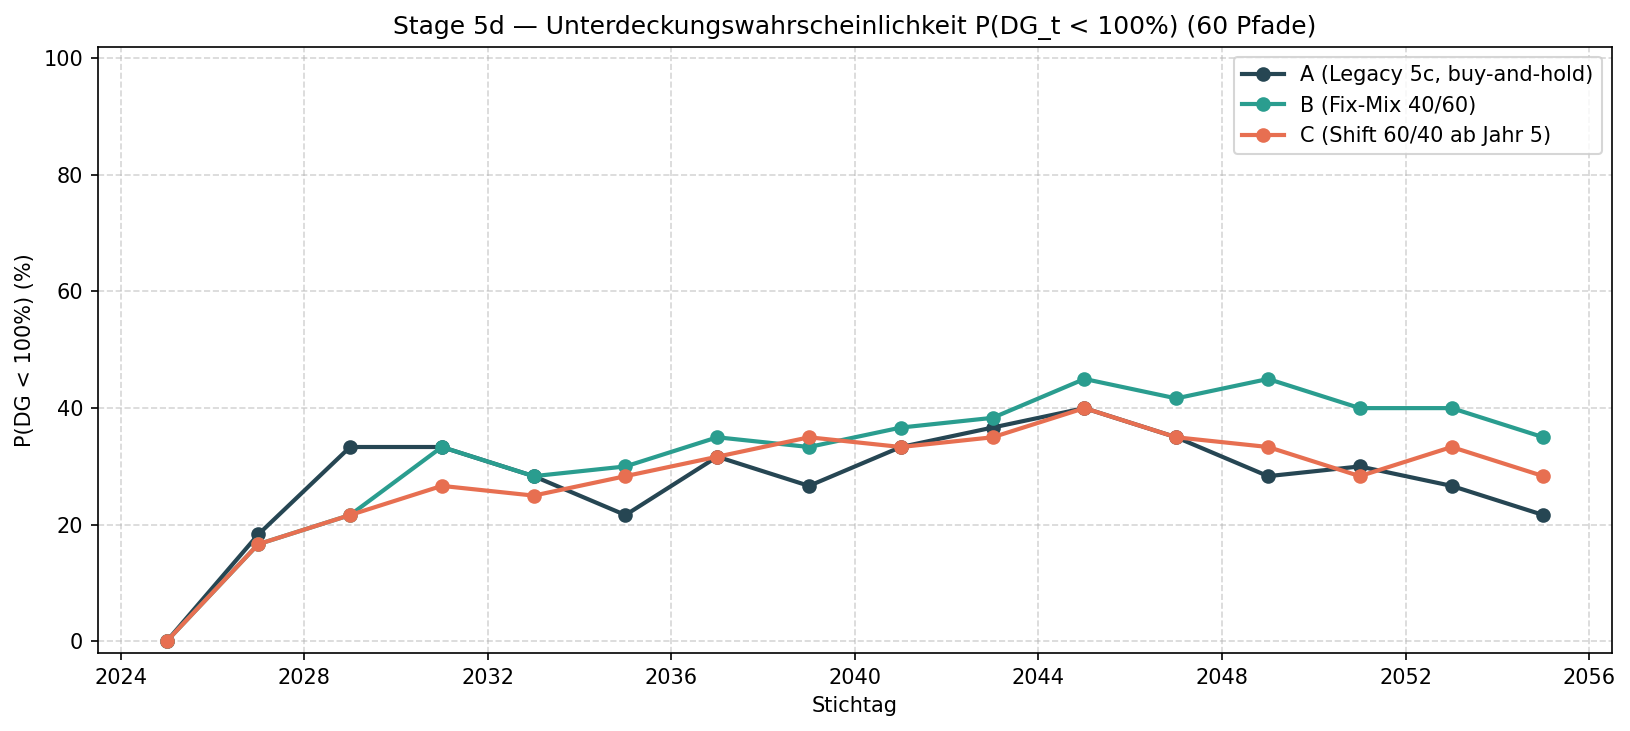
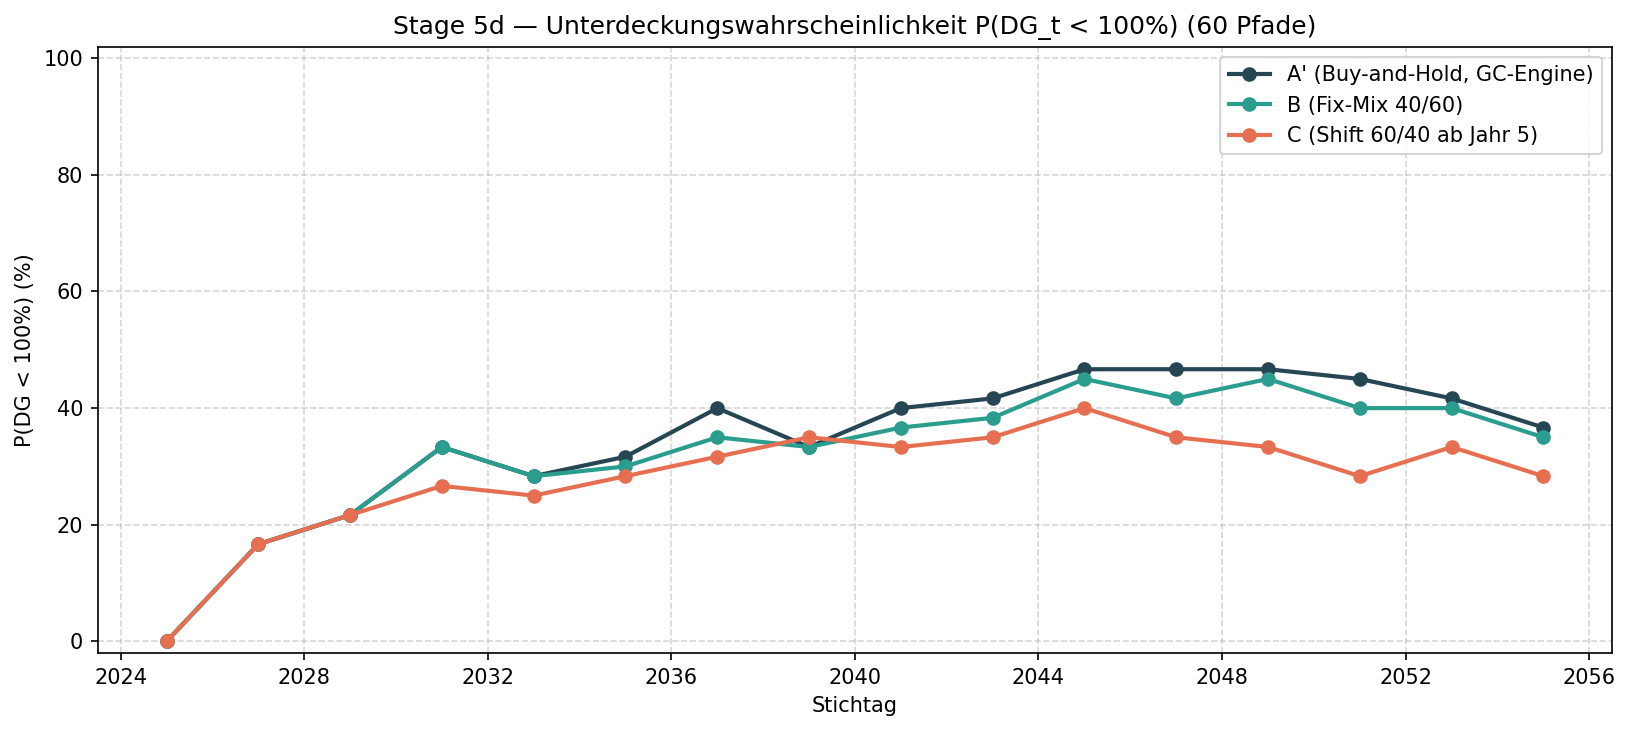
Stage 5d: Szenario A' (echtes Buy-and-Hold in der GC-Engine)
- A' = GC-Engine mit frequency_years > Horizont (reine Konfiguration,
  kein neuer Code): gleiche Buckets, equity_sigma=0.10 (SEED_EQ-gekoppelt
  mit B/C), bond_yield=0.02, nie rebalanciert (Config-Assert im Skript)
- Legacy-5c-Lauf bleibt Regressions-Referenz (Assert 1), fliegt aus dem
  Strategievergleich: andere Equity-Schock-Quelle (GBM monatlich) und
  0%-Flows machen ihn als Benchmark unsauber
- Plots neu: v1_dg_fan_Aprime ersetzt v1_dg_fan_A; B/C-Zahlen unveraendert
  (Seed-Kopplung verifiziert)

diff --git a/awesome_actus_lib/pension/examples/Stage5d_going_concern_quickstart.py b/awesome_actus_lib/pension/examples/Stage5d_going_concern_quickstart.py
@@ -3,10 +3,17 @@
 Stage 5d (Baustein 2) — Allokations-Shift-Experiment auf dem going-concern
 Asset-Roll (Spec: docs/stage5d_going_concern_spec.md):
 
-  A  Legacy 5c: kein Reinvestment, Buy-and-hold (Referenz / Regression)
+  A' echtes Buy-and-Hold in der GC-Engine: gleiche Buckets/Schocks wie B/C,
+     aber nie rebalancen (frequency_years > Horizont — reine Konfiguration)
   B  Reinvest + Fixed-Mix 40% BONDS / 60% EQUITY, jaehrlich, equity_sigma=0.10,
      bond_yield=0.02 auf dem inkrementellen BONDS-Bestand (Baustein 2c)
   C  wie B, Shift auf 60/40 ab Jahr 5 ("mortgage->bonds"-Beispiel)
+
+Der Legacy-5c-Lauf (One-Shot-Buchung, Flows zu 0%, GBM-MTM-Equity) bleibt
+als Regressions-Referenz fuer Spec-Assert 1, ist aber KEIN Szenario im
+Strategievergleich mehr: seine Equity-Schocks kommen aus einem anderen
+Generator (GBM monatlich) und seine Flows verdienen nichts — Differenzen
+zu B/C waeren Engine-Artefakte, keine Strategieeffekte.
 
 Kalibrierung per Spec: Stage-4-Bestand (8 aktive Kohorten + RETIRED_1955,
 EntryPolicy 20/Jahr), initial_assets = 1.076 x VK_t0 (Complementa YE 2023),
@@ -251,7 +258,7 @@ print(f"  Done. asset_cfs[0] events={len(salm._asset_cfs[0].events_df)}")
 
 
 # =============================================================================
-# 5. SZENARIEN A / B / C
+# 5. SZENARIEN A' / B / C  (+ Legacy 5c als Regressions-Referenz)
 # =============================================================================
 print("\n[5] Szenarien")
 print("-" * 40)
@@ -265,7 +272,24 @@ _COMMON = dict(
     liab_paths=liab_paths,
 )
 
-scen_A = StochasticFundingRatioAnalysis(salm=salm, **_COMMON)
+# Legacy 5c — nur Regressions-Referenz (Spec-Assert 1), kein Szenario.
+ref_5c = StochasticFundingRatioAnalysis(salm=salm, **_COMMON)
+
+# A' — echtes Buy-and-Hold in der GC-Engine: frequency_years > Horizont,
+# also wird nie ein Rebalancing-Termin faellig (die target_weights sind
+# inert). Flows werden proportional zu den aktuellen Gewichten investiert,
+# Equity-Schocks und bond_yield identisch zu B/C — pfadweise gekoppelt.
+scen_Ap = GoingConcernFundingRatioAnalysis(
+    salm, **_COMMON,
+    rebalancing=RebalancingPolicy(
+        target_weights={BONDS: 0.40, EQUITY: 0.60},
+        frequency_years=HORIZON_YEARS + 1,
+    ),
+    equity_return=EQ_RETURN,
+    equity_sigma=EQ_SIGMA,
+    equity_seed=SEED_EQ,
+    bond_yield=BOND_YIELD,
+)
 
 scen_B = GoingConcernFundingRatioAnalysis(
     salm, **_COMMON,
@@ -290,12 +314,13 @@ scen_C = GoingConcernFundingRatioAnalysis(
 )
 
 scenarios = {
-    "A (Legacy 5c, buy-and-hold)": scen_A,
+    "A' (Buy-and-Hold, GC-Engine)": scen_Ap,
     "B (Fix-Mix 40/60)": scen_B,
     "C (Shift 60/40 ab Jahr 5)": scen_C,
 }
 for name in scenarios:
     print(f"  {name}")
+print("  (Legacy 5c: nur Regressions-Referenz, nicht im Vergleich)")
 
 
 # =============================================================================
@@ -311,20 +336,27 @@ gc_off = GoingConcernFundingRatioAnalysis(
 for d in (BASE_DATE, f"{START_YEAR + 10}-01-01", f"{START_YEAR + 25}-01-01"):
     np.testing.assert_array_equal(
         gc_off.funding_ratio_distribution(d),
-        scen_A.funding_ratio_distribution(d),
+        ref_5c.funding_ratio_distribution(d),
         err_msg=f"Regression vs 5c verletzt bei {d}",
     )
 print("  => Assert 1 OK — rebalancing=None, sanierung=None identisch zu 5c.")
 
 # ---- DG_t0-Kalibrierung ------------------------------------------------------
-dg_t0 = scen_A.funding_ratio_distribution(BASE_DATE)
+dg_t0 = ref_5c.funding_ratio_distribution(BASE_DATE)
 assert abs(float(np.mean(dg_t0)) - 1.076) < 1e-9, (
     f"DG_t0-Kalibrierung verfehlt: {float(np.mean(dg_t0)):.6%} statt 107.6%"
 )
 print(f"  => Kalibrierung OK — DG_t0 = {float(np.mean(dg_t0)):.4%} (Soll 107.6%).")
 
-# ---- Spec-Assert 3: nach jedem Rebalance |w - target| < 1e-12 ----------------
+# ---- A'-Konfiguration: Buy-and-Hold heisst nie rebalancen --------------------
 _LAST_DATE = f"{START_YEAR + HORIZON_YEARS}-01-01"
+wp_ap = scen_Ap.weight_path(0, _LAST_DATE)
+assert not bool(wp_ap["rebalanced"].any()), (
+    "A' (frequency_years > Horizont) darf nie rebalancen"
+)
+print("  => A'-Konfiguration OK — kein einziger Rebalancing-Termin im Horizont.")
+
+# ---- Spec-Assert 3: nach jedem Rebalance |w - target| < 1e-12 ----------------
 for p_i in (0, N_PATHS // 2, N_PATHS - 1):
     wp = scen_B.weight_path(p_i, _LAST_DATE)
     reb = wp[wp["rebalanced"]]
@@ -361,14 +393,14 @@ dists = {
 
 _QUANTILES = (5, 25, 50, 75, 95)
 _COLORS = {
-    "A (Legacy 5c, buy-and-hold)": "#264653",
+    "A' (Buy-and-Hold, GC-Engine)": "#264653",
     "B (Fix-Mix 40/60)": "#2a9d8f",
     "C (Shift 60/40 ab Jahr 5)": "#e76f51",
 }
 _x = [np.datetime64(d) for d in fan_dates]
 
 # ---- v1: DG-Quantilfaecher je Szenario ---------------------------------------
-for tag, (name, scen_dists) in zip("ABC", dists.items()):
+for tag, (name, scen_dists) in zip(("Aprime", "B", "C"), dists.items()):
     q = {p: np.array([np.percentile(scen_dists[d], p) for d in fan_dates])
          for p in _QUANTILES}
     fig, ax = plt.subplots(figsize=(11, 5))
